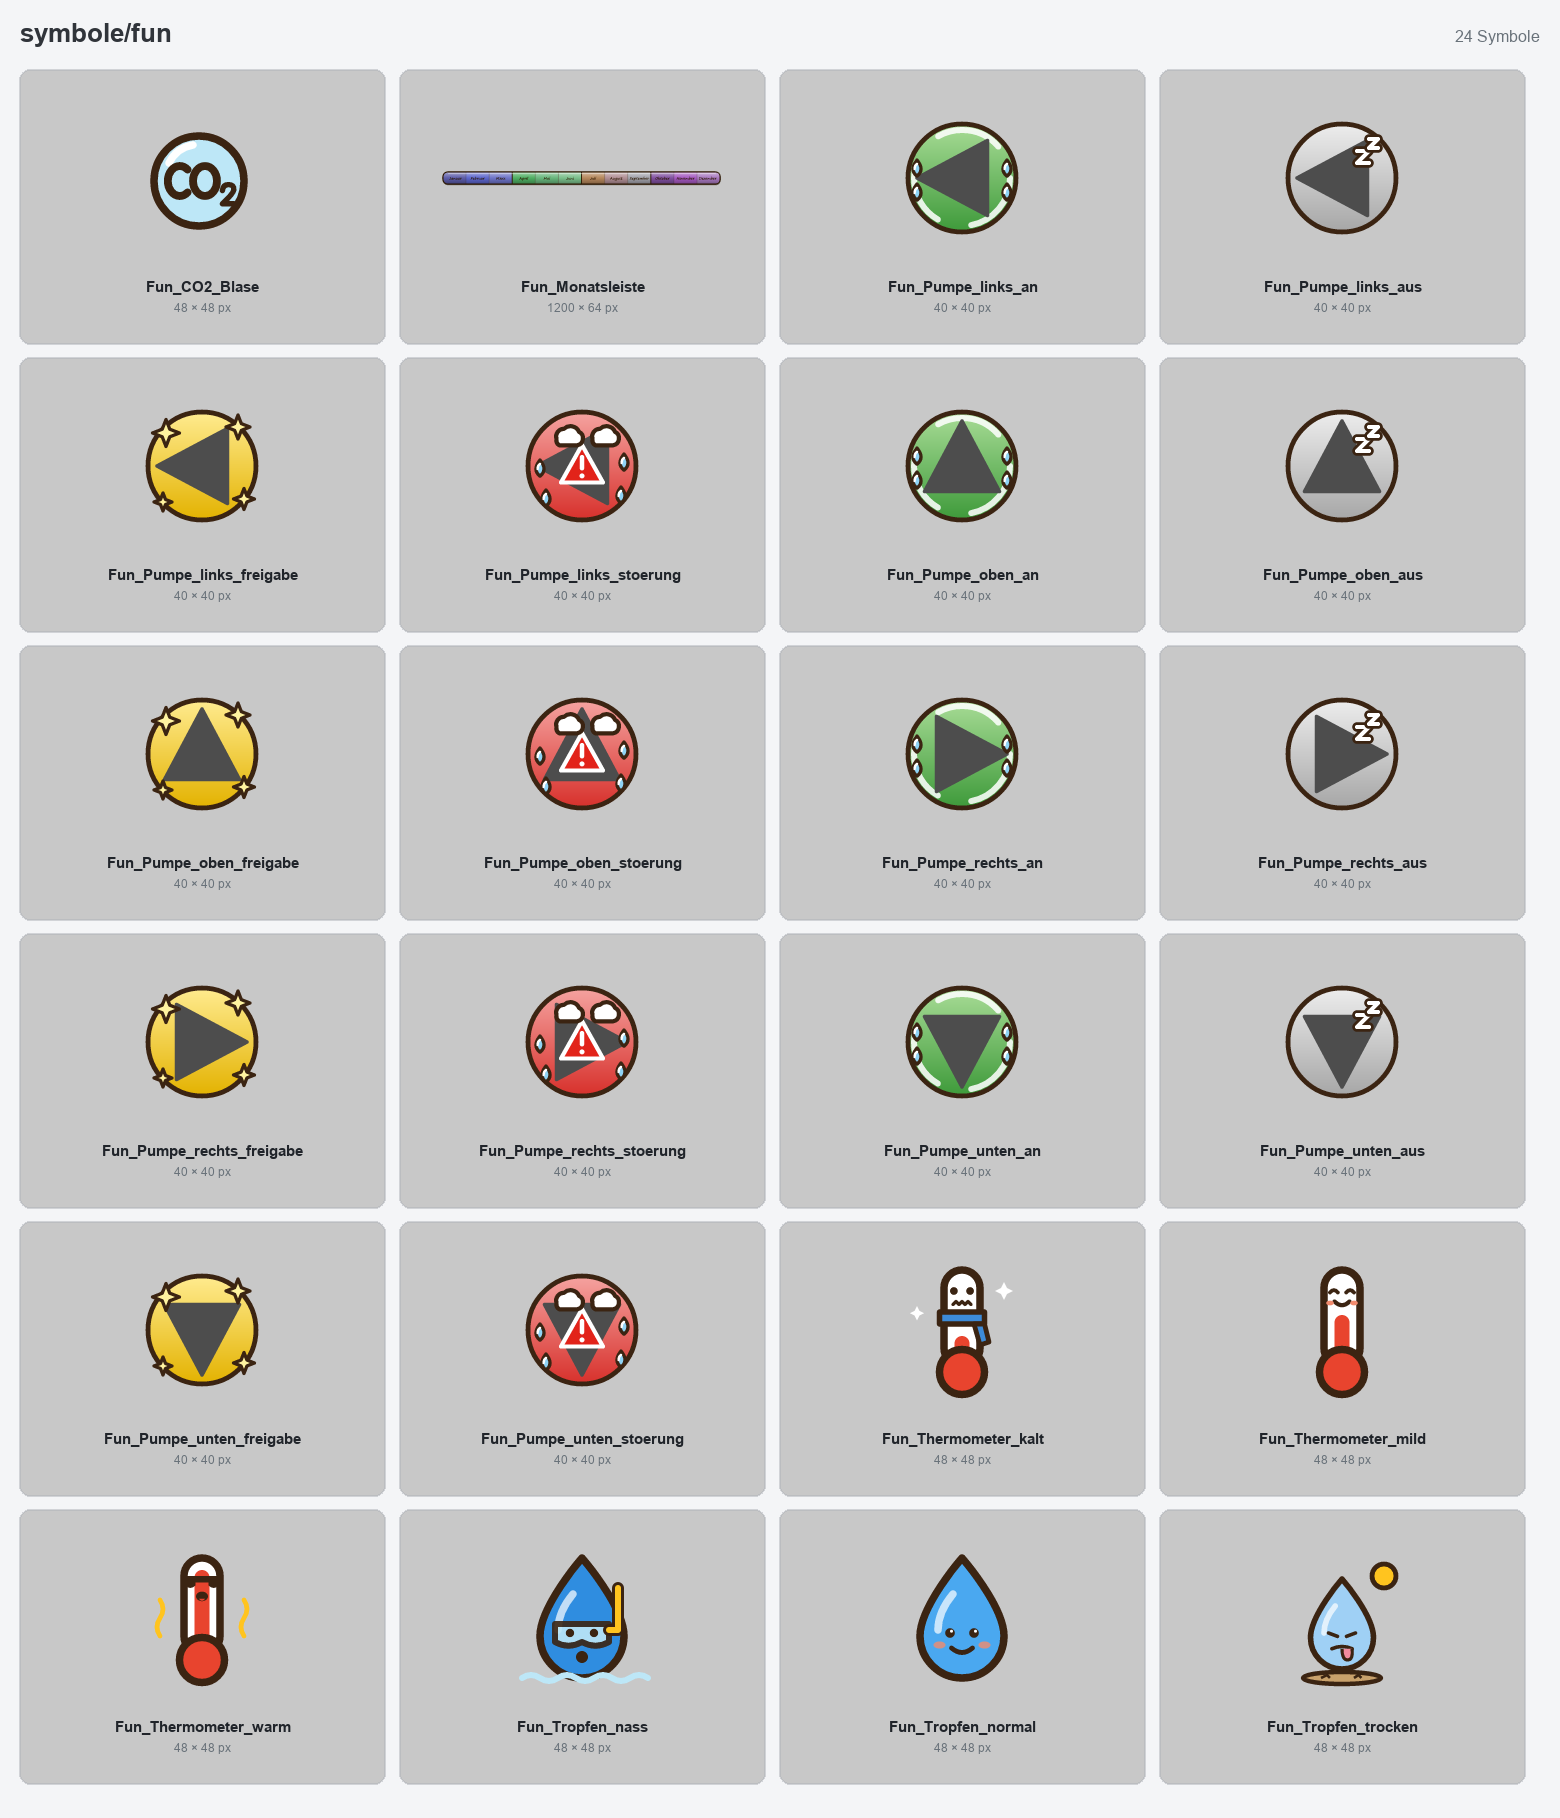
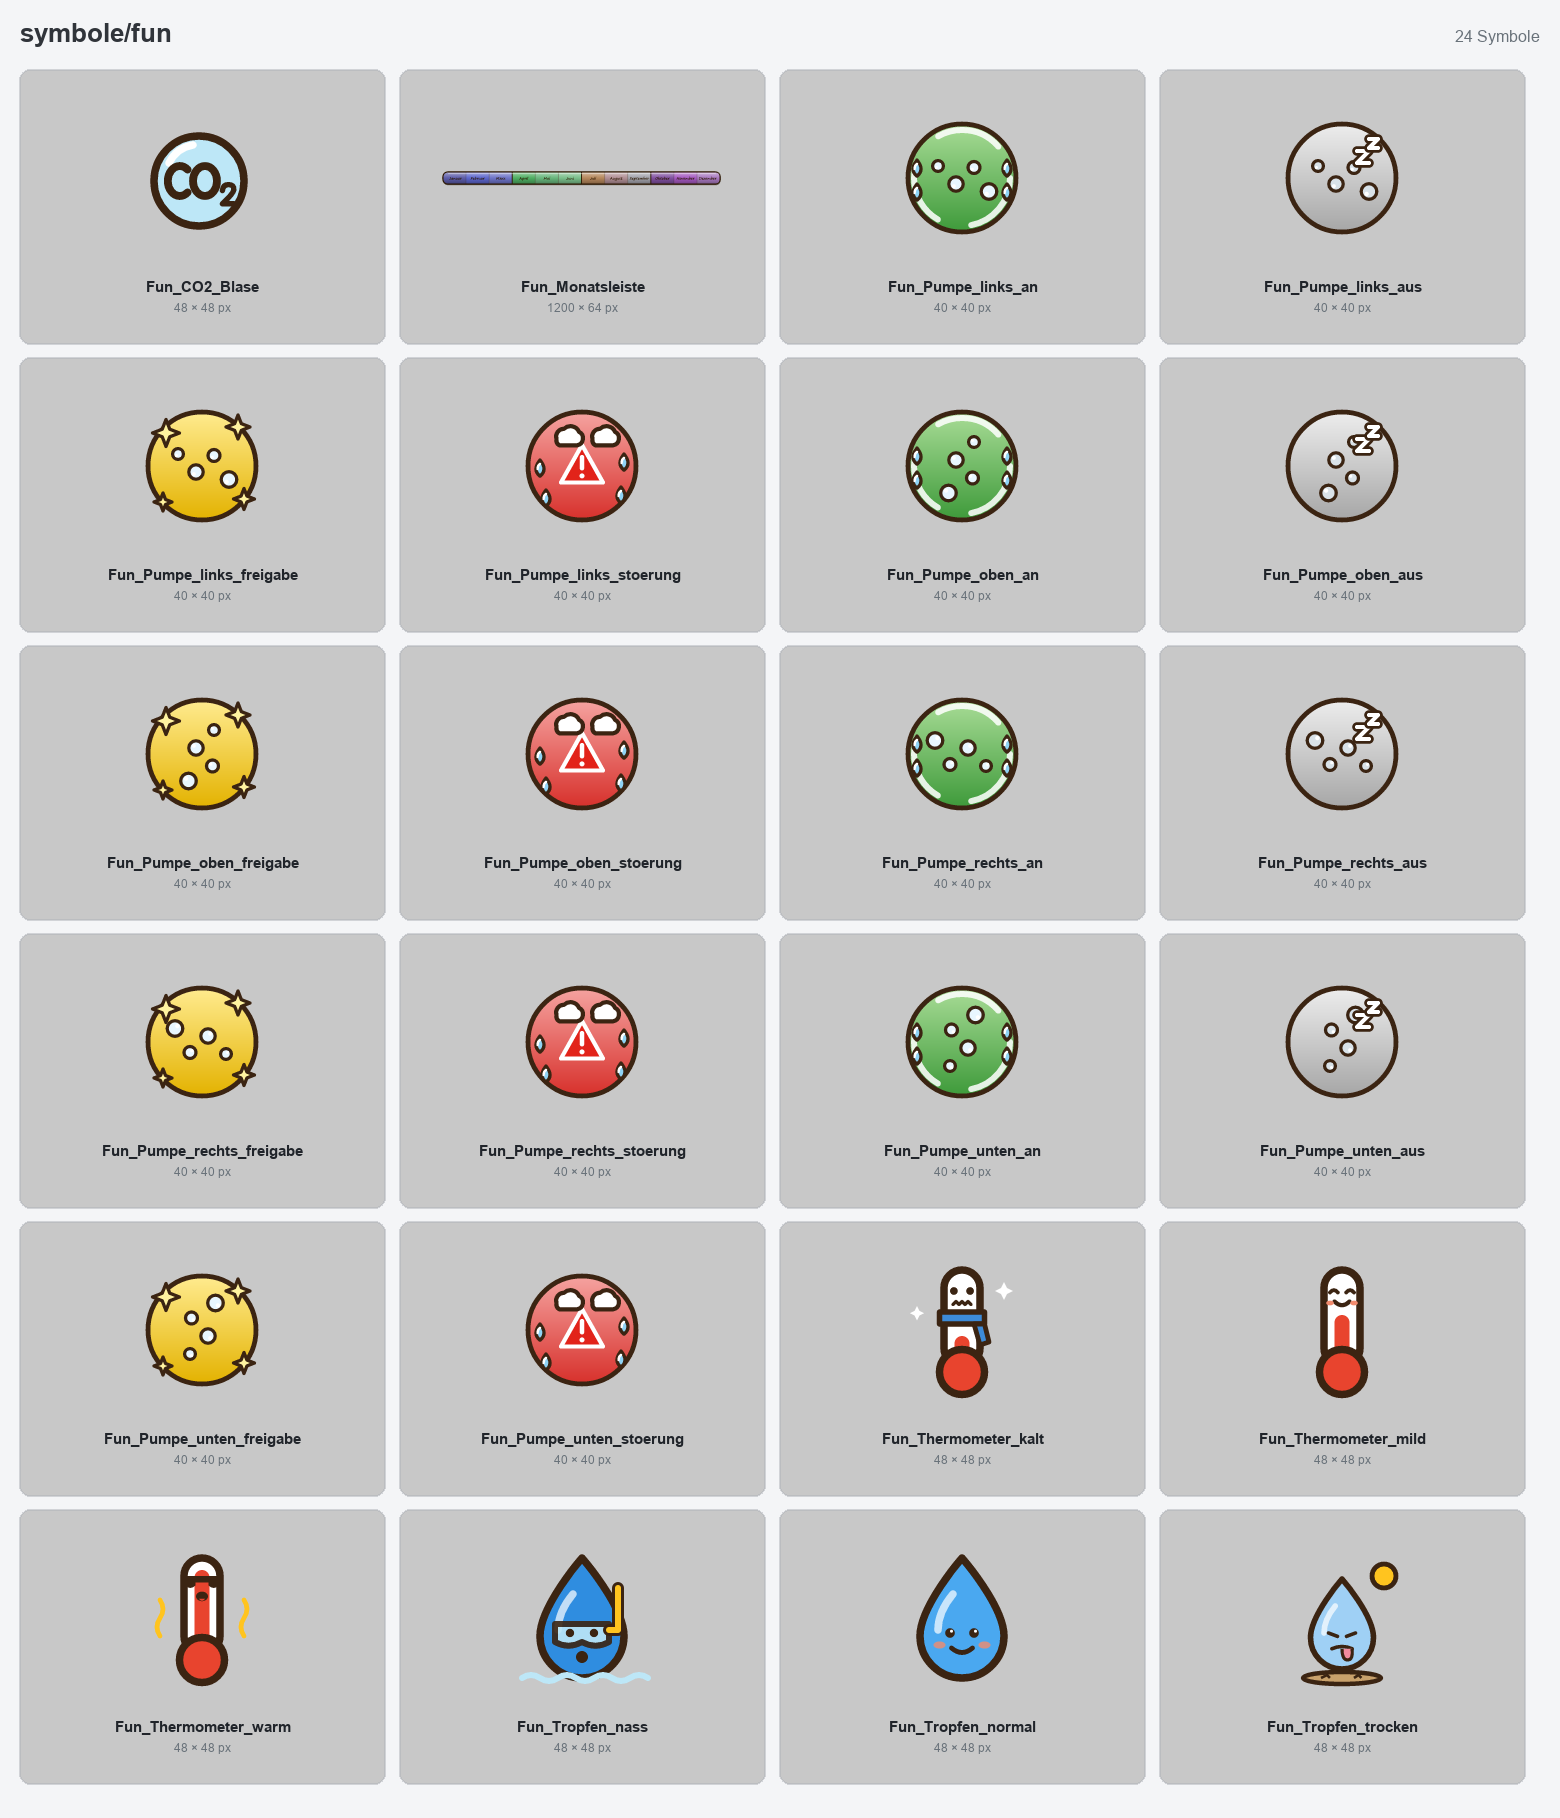
Fun-Pumpen: Förderdreieck entfernt, Luft-/Wasserblasen wandern in Förderrichtung

diff --git a/tools/fun_pumpe.py b/tools/fun_pumpe.py
@@ -1,11 +1,11 @@
 """Erzeugt symbole/fun/Fun_Pumpe_{richtung}_{zustand}.svg (40 × 40, wie die Pumpen unter symbole/hydraulik).
 
-Basis ist das Pumpensymbol aus pumpe.py (im Hintergrund, mit brauner Fun-Kontur), davor je Zustand
-eine kleine Cartoon-Animation (SMIL):
-  _aus        zwei „z“ steigen auf (schläft)
-  _freigabe   Funken blinken (bereit)
-  _an         blaue Wassertropfen spritzen seitlich ab
-  _stoerung   Pumpe wackelt, Dampfwolken steigen auf, Schweißperlen spritzen ab
+Basis ist das Pumpensymbol aus pumpe.py (im Hintergrund, mit brauner Fun-Kontur, ohne Förderdreieck),
+davor je Zustand eine kleine Cartoon-Animation (SMIL). Die Förderrichtung zeigen Luft-/Wasserblasen an:
+  _aus        zwei „z“ steigen auf (schläft), drei stehende Blasen in Förderrichtung
+  _freigabe   Funken blinken (bereit), Blasen wandern langsam in Förderrichtung
+  _an         blaue Wassertropfen spritzen seitlich ab, Blasen wandern in Förderrichtung
+  _stoerung   Pumpe wackelt, Dampfwolken steigen auf, Schweißperlen spritzen ab (keine Blasen)
 Aufruf: python tools/fun_pumpe.py
 """
 from pathlib import Path
@@ -36,6 +36,28 @@ def zeta(x: float, y: float, groesse: float, beginn: float) -> str:
     <path d="M{x},{y} h{g} l-{g},{g} h{g}" fill="none" stroke="#FFFFFF" stroke-width="1.4" stroke-linecap="round" stroke-linejoin="round"/></g>'''
 
 
+# Blasen für Richtung „oben“ (Förderung von unten nach oben), werden für die anderen Richtungen gedreht.
+BLASEN = [(15.5, 29, 2.6, 0.0), (23.5, 24, 2.0, 0.6), (18, 18, 2.4, 1.2), (24, 12, 1.8, 1.8)]
+
+
+def blasen(richtung: str, modus: str) -> str:
+    """modus: 'schnell' (Betrieb), 'langsam' (Freigabe) oder 'still' (aus)."""
+    dauer = {"schnell": 2.4, "langsam": 4.8, "still": 0}[modus]
+    zeilen = [f'  <g transform="rotate({pumpe.RICHTUNGEN[richtung]} 20 20)">']
+    for x, y, r, b in BLASEN:
+        fuell = "#E8F6FF" if modus != "still" else "#D9E2E8"
+        kreis = (f'<circle cx="{x}" cy="{y}" r="{r}" fill="{fuell}" stroke="{BRAUN}" stroke-width="1.1"/>'
+                 f'<circle cx="{x - r * 0.3:.1f}" cy="{y - r * 0.3:.1f}" r="{r * 0.28:.2f}" fill="#FFFFFF"/>')
+        if modus == "still":
+            zeilen.append("    " + kreis)
+            continue
+        beginn = b * dauer / 2.4
+        zeilen.append(f'    <g opacity="1"><animate attributeName="opacity" values="0;1;1;0" keyTimes="0;0.15;0.75;1" dur="{dauer}s" begin="{beginn:.2f}s" repeatCount="indefinite"/>'
+                      f'<animateTransform attributeName="transform" type="translate" values="0 8;0 -8" dur="{dauer}s" begin="{beginn:.2f}s" repeatCount="indefinite"/>{kreis}</g>')
+    zeilen.append("  </g>")
+    return "\n".join(zeilen)
+
+
 def funke(x: float, y: float, r: float, beginn: float) -> str:
     return f'''  <path d="M{x},{y - r} L{x + r * 0.28},{y - r * 0.28} L{x + r},{y} L{x + r * 0.28},{y + r * 0.28} L{x},{y + r} L{x - r * 0.28},{y + r * 0.28} L{x - r},{y} L{x - r * 0.28},{y - r * 0.28} Z" fill="#FFF3A0" stroke="{BRAUN}" stroke-width="1.1" stroke-linejoin="round">
     <animate attributeName="opacity" values="0.15;1;0.15" dur="1.2s" begin="{beginn}s" repeatCount="indefinite"/></path>'''
@@ -58,6 +80,12 @@ def svg(richtung: str, zustand: str) -> str:
     zeilen[1] = zeilen[1].replace("<title id=\"title\">Pumpe", "<title id=\"title\">Fun-Pumpe")
     kontur = pumpe.FARBEN[zustand][2]
     kopf, koerper = zeilen[:3], [z.replace(kontur, BRAUN) for z in zeilen[3:-1]]
+    # Förderdreieck samt Fließpfeilen (Gruppe mit rotate) entfernen
+    von = next(i for i, z in enumerate(koerper) if z.startswith('  <g transform="rotate('))
+    bis = next(i for i in range(von, len(koerper)) if koerper[i] == "  </g>")
+    koerper = koerper[:von] + koerper[bis + 1:]
+    if zustand != "stoerung":
+        koerper.append(blasen(richtung, {"an": "schnell", "freigabe": "langsam", "aus": "still"}[zustand]))
     if zustand == "stoerung":
         koerper = [f"  <g>{WACKELN}"] + koerper + ["  </g>"]
     return "\n".join(kopf + koerper + EFFEKTE[zustand] + ["</svg>"]) + "\n"

diff --git a/docs/SYMBOLKATALOG.md b/docs/SYMBOLKATALOG.md
@@ -206,7 +206,8 @@ Umschalten über `image`-Binding mit Konverter (siehe NIAGARA.md).
 ### Fun-Pumpen
 
 - `Fun_Pumpe_{oben,rechts,unten,links}_{aus,freigabe,an,stoerung}`: 40 × 40, gleiche Größe, Richtungen und Zustandsfarben wie die Pumpen unter `symbole/hydraulik/`, daher per `image`-Binding austauschbar. Pumpensymbol im Hintergrund mit brauner Fun-Kontur, davor eine kleine Animation (SMIL).
-- `_aus`: zwei „z“ steigen auf. `_freigabe`: Funken blinken. `_an`: blaue Wassertropfen spritzen seitlich ab. `_stoerung`: Pumpe wackelt, Dampfwolken steigen auf, Schweißperlen spritzen ab.
+- Kein Förderdreieck: Die Förderrichtung zeigen Luft-/Wasserblasen an, die in Richtung der Förderung wandern.
+- `_aus`: zwei „z“ steigen auf, drei stehende Blasen. `_freigabe`: Funken blinken, Blasen wandern langsam. `_an`: Blasen wandern zügig, blaue Wassertropfen spritzen seitlich nach außen ab. `_stoerung`: Pumpe wackelt, Dampfwolken steigen auf, Schweißperlen spritzen ab, keine Blasen (nur das Warndreieck).
 - Erzeugt mit `tools/fun_pumpe.py` (baut auf `tools/pumpe.py` auf). Ohne Animation bleibt das Symbol mit allen Effekten sichtbar.
 
 ### Monatsleiste
